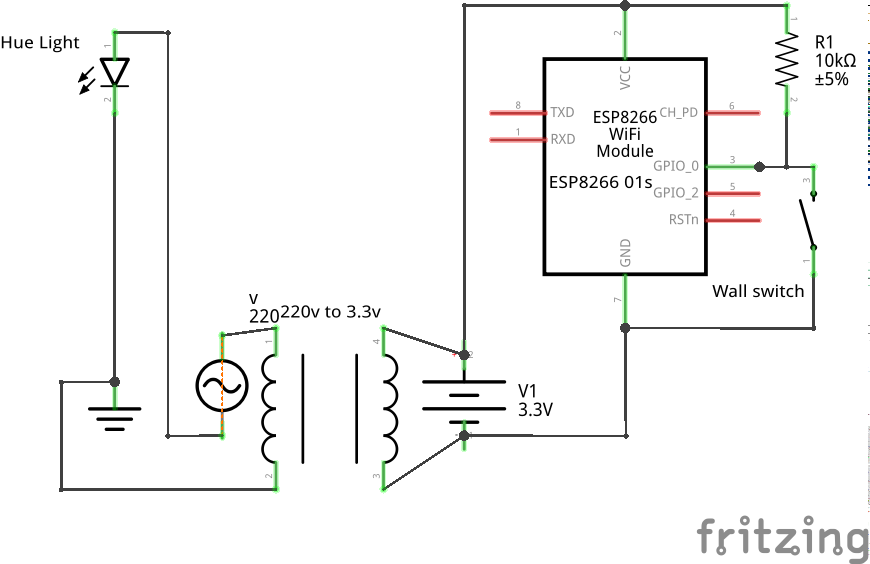
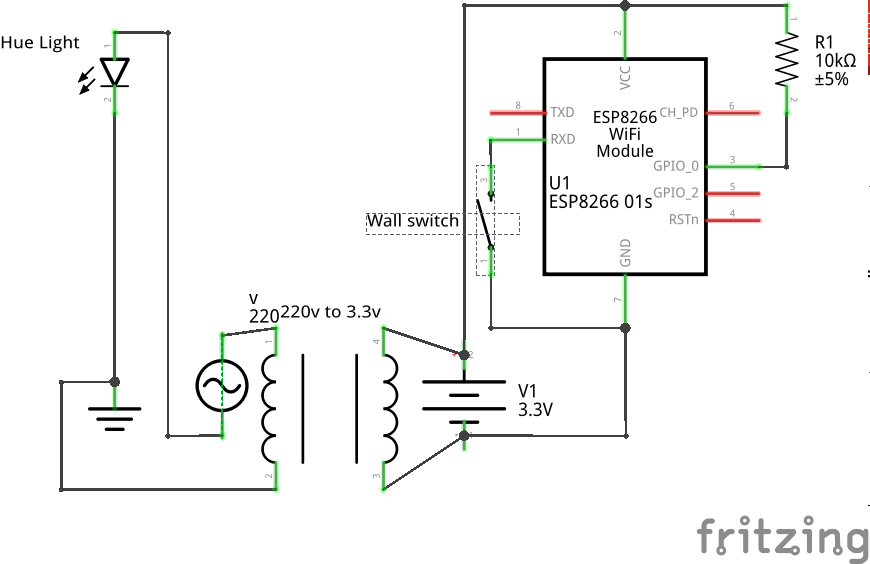
using RX as input pin so it does not interfere with the booting process

diff --git a/project/main.py b/project/main.py
@@ -28,8 +28,9 @@ lamp = Lamp(bridge_ip, token, name)
 # switch = Pin(0, Pin.IN, pull=Pin.PULL_UP)
 
 # for esp8266 01s boards a pull up resistor is required on d0 so the board
-# never boots in flashing mode even if the switch is open.
-switch = Pin(0, Pin.IN)  # pull up resistor required on pin
+# never boots in flashing mode
+switch = Pin(3, Pin.IN, pull=Pin.PULL_UP)  # using RX pin as input so we don't
+# mess with the booting process
 initial_state = switch.value()
 print('Current switch state is {}'.format(initial_state))
 

diff --git a/README.md b/README.md
@@ -1,8 +1,8 @@
 # Philips hue switch
-Micropython code that toggles a philips hue lamp using wemos d1 mini or esp8266 01s
+Micropython code that toggles a philips hue lamp using wemos d1 mini or esp8266-01s
 
 This project is to be used with a hardware switch making that existing wall
-switch not cutting the current off but using the api to toggle the lamp's
+switch not cutting the power off but using the api to toggle the lamp's
 state.
 
 Some electrical assembly required :)
@@ -22,7 +22,7 @@ When the traditional switch is off the lamps of course
 can not be operated through the app, but only using the app is not realistic
 for all lights and all conditions. Also people coming over do not have access
 to the app and many people in a house create confusion.
- 
+
 The current solution is to purchase a separate wireless switch from
 Philips to use with the lamps but that can get really expensive really quick
 if you want one for each lamp and of course that does not solve the
@@ -32,7 +32,7 @@ the lights or have to be taken out. Not fun.
 # Solution
 All lights can be operated through the api provided by the hue bridge.
 Instead of using the switch to cut the power to the lamp leaving it useless,
-we rewire the lamp to be constantly powered and the switch to an esp8266
+we rewire the lamp to be constantly powered and the switch to an esp8266-01s
 board to toggle the lamp through the api. That way our switch works as before
 for all, toggling the state of the lamp and the lamp continues to be
 accessible through the app all the time. Sweet right?
@@ -43,8 +43,105 @@ so we want to go from this initial state:
 
 to this state (schematic depicting an esp01s):
 
-![alt text](schematics/esp8266_01s_schem.png "esp01s 
+![alt text](schematics/esp8266_01s_schem.png "esp01s
 schematic")
 
 # Requirements
 [Enable hue api access to your bridge](https://www.developers.meethue.com/documentation/getting-started)
+
+If project is based on a wemos D1 mini
+
+* [wemos d1 mini](https://www.aliexpress.com/item/D1-mini-Mini-NodeMcu-4M-bytes-Lua-WIFI-Internet-of-Things-development-board-based-ESP8266-by/32644199530.html)
+
+* [220v to 5v power converted](https://www.aliexpress.com/item/5V-700mA-3-5W-AC-DC-Precision-Buck-Converter-AC-220v-to-5v-DC-step-down/32649591757.html)
+
+If project is based on an esp8266 01s (Current documentation mentions this case.)
+
+* [esp8266-01s](https://www.aliexpress.com/item/New-Version-ESP8266-ESP-01-ESP01-Serial-Wireless-WIFI-Module-Transceiver-Receiver-Board-for-Internet-of/32799606069.html)
+
+* [220v to 3.3v power converted](https://www.aliexpress.com/item/AC-220-V-to-3-3-V-DC-power-supply-module-transformer-module-is-completely-isolated/32768604824.html)
+
+
+# Physical Connection
+
+You can see pictures of the connectivity under the [images](images) directory.
+
+
+# Schematics
+
+Images in png format and a fritzing project for each case can be found under [schematics](schematics)
+
+
+# Configuration
+
+ Rename configuration_sample.json to configuration.json and edit accordingly.
+  Everything else should just work out of the box.
+
+# Flashing micropython
+
+To load this project the microcontroler needs to be running micropython and you
+need [ampy](https://github.com/adafruit/ampy)
+
+Required tools:
+
+#esp8266-01s specific
+To flash the esp8266-01s a component to connect it to usb is required.
+Remember that it is 3.3v power and *will* fry with 5v.
+
+* [esp8266-01s programmer](https://www.aliexpress.com/item/ESP01-Programmer-Adapter-UART-GPIO0-ESP-01-Adaptaterr-ESP8266-USB-to-ESP8266-Serial-Wireless-Wifi/32704996344.html)
+
+In order for the board to be flashed it has to be booted up with d0 pulled
+low. That means that when the board is booted d0 should be connected to
+ground.
+
+The easiest way to do that is to stick a thin cable in the
+appropriate holes as can be seen [here](images/IMG_20170519_095341.jpg). This
+ of course can get pretty old pretty quick if you have a few boards to flash.
+
+
+  The right solution is to add a jumper between ground and d0 as can be seen
+  [here](images/IMG_20170518_141529.jpg) and [here](images/IMG_20170518_165919.jpg)
+and choose the appropriate mode of booting by using the jumper cap or not.
+
+Of course in order for the project to work properly when used the esp8266-01s
+ has to be booted with d0 high, so it does not enter in flash mode.
+
+ In order to fix this a 10K pull up resistor has to be connected between d0
+ and VCC (3.3v) so the pin is kept high and boots into running mode even if
+ rebooted.
+
+ In order for the switch to not interfere with the booting process we are 
+ using RX (gpio03) as input pulled high through software.
+
+
+# common for both wemos d1 mini and esp8266-01s
+   [esptool](https://github.com/espressif/esptool) (Follow installation instructions)
+
+  With the board connected to a usb port of your linux box assuming that the
+  port is ttyUSB0 (check with dmesg after connecting to see what is assigned)
+
+  After the first command you might have to reboot the board, or just
+  disconnect and connect again.
+
+    esptool.py --port /dev/ttyUSB0 erase_flash
+    esptool.py --port /dev/ttyUSB0 --baud 460800 write_flash --flash_size=detect 0 MICROPYTHON_FIRMWARE_FOR_ESP8266.bin
+
+
+  I have had some wemos d1 mini boards having trouble flashing with the above
+  with garbage on the serial and the led staying on. On those boards this
+  command works.
+
+    esptool.py --port /dev/ttyUSB0 write_flash -fm dio -fs 32m 0 MICROPYTHON_FIRMWARE_FOR_ESP8266.bin
+
+
+# Loading the project
+
+Required tools:
+
+   [ampy](https://github.com/adafruit/ampy) (Follow installation instructions)
+
+    export AMPY_PORT=/dev/ttyUSB0
+    ampy put library
+    ampy put configuration.json
+    ampy put main.py
+    ampy put boot.py
